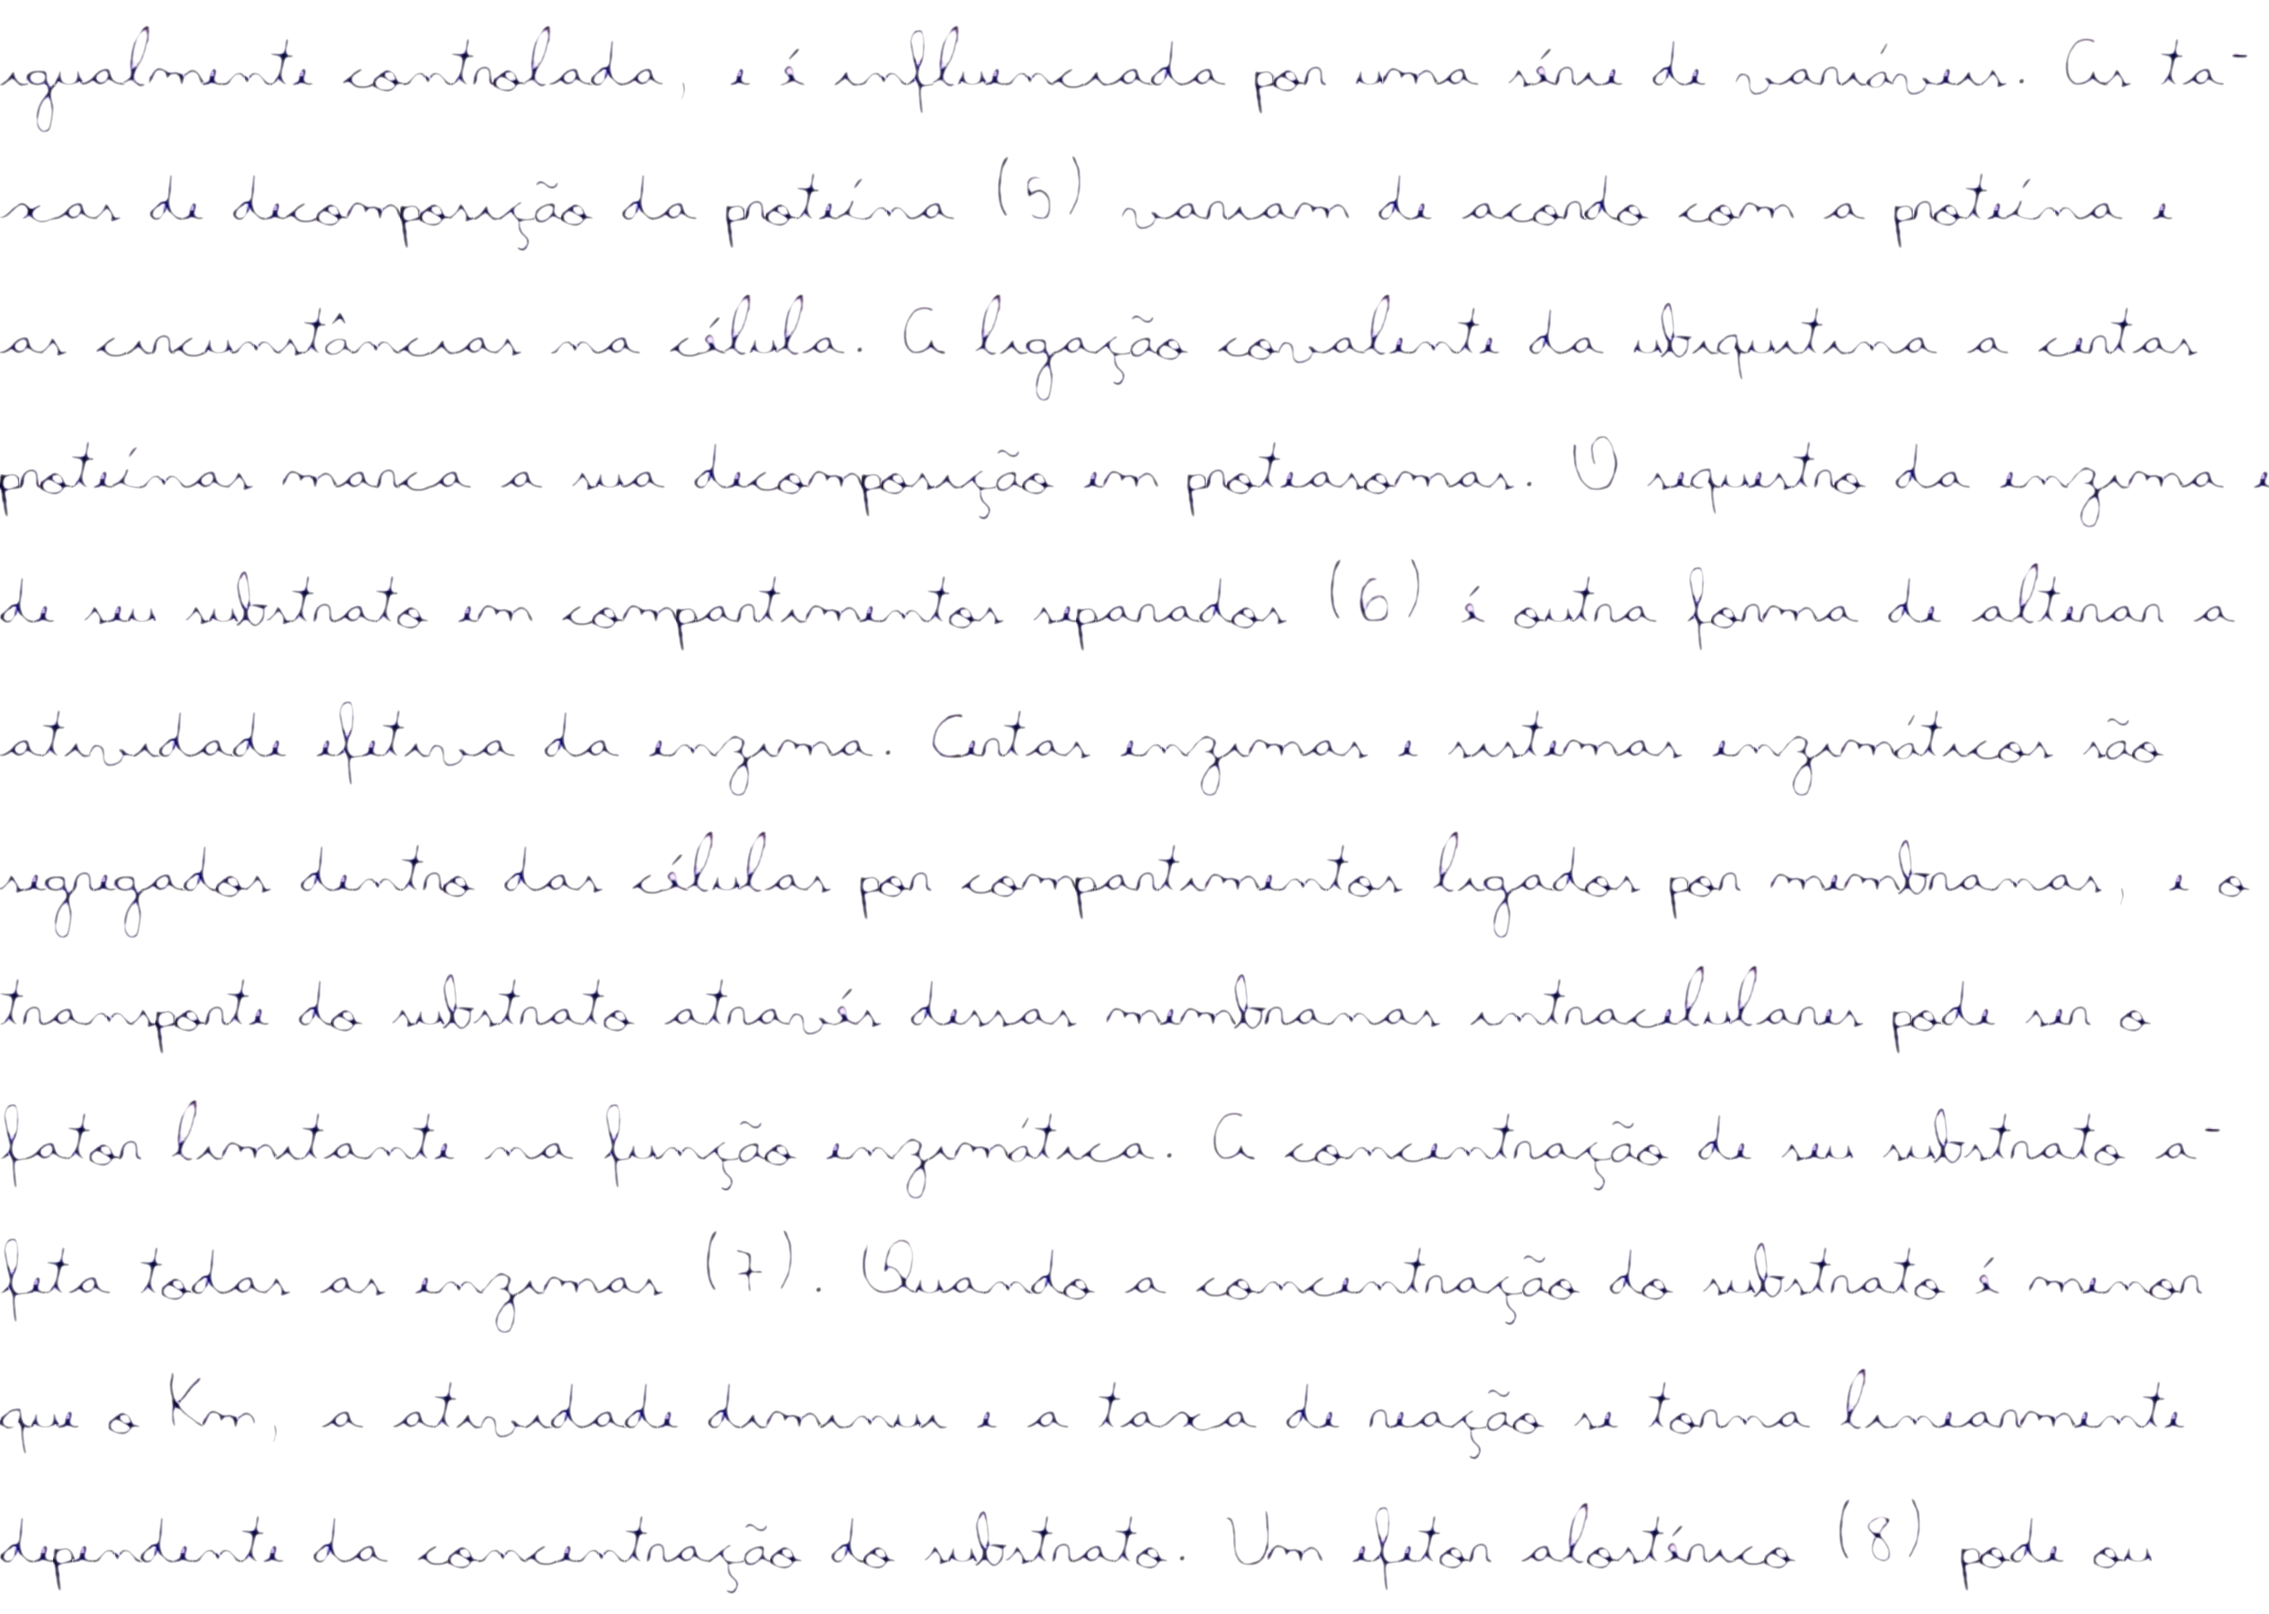
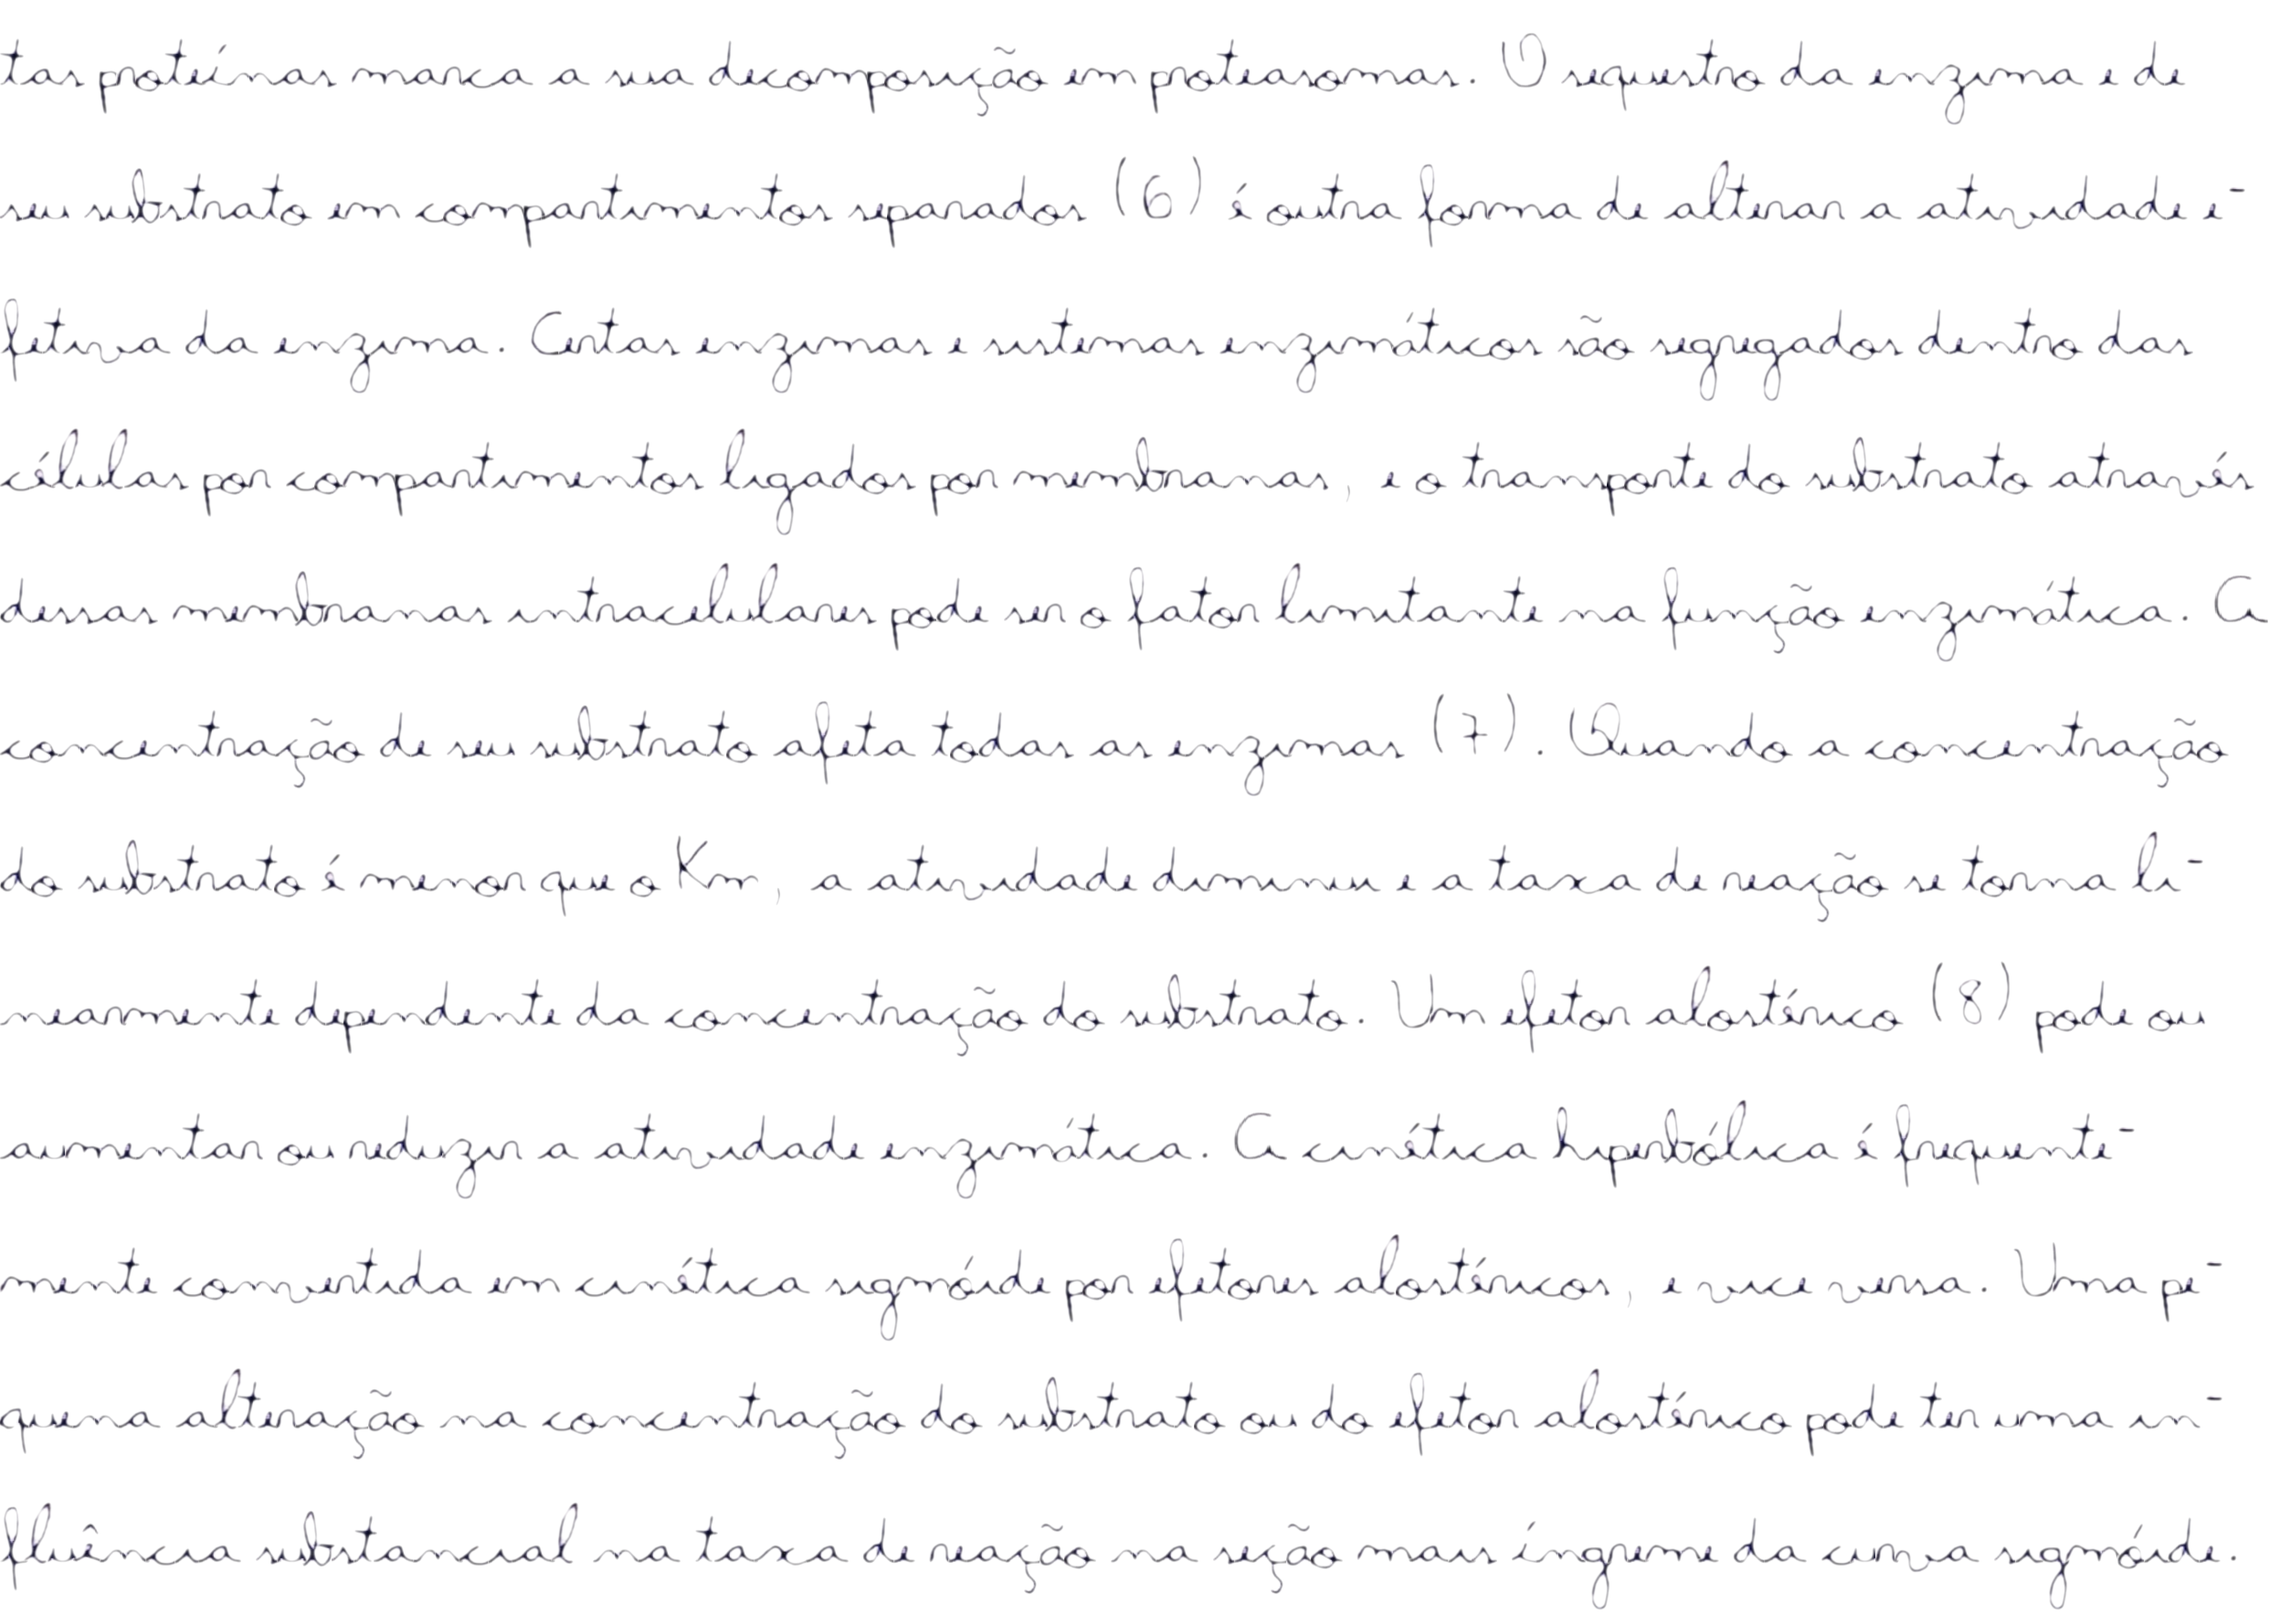
AAAAAAAAA

diff --git a/converttxt.py b/converttxt.py
@@ -1,4 +1,4 @@
-txt="Bioquímica 2 - Atividade 3\nGiuliana Lopes Pola 11779802\nDesenhos nas últimas páginas!"
+txt="1. Variações no número de moléculas enzimáticas ou mudanças na atividade catalítica de cada molécula enzimática presente atualmente podem afetar o fluxo através de um processo catalisado por enzimas. Mudanças na concentração local de uma pequena molécula: um substrato da rota na qual essa reação é um passo, um produto do caminho, ou um metabólito ou cofator crítico que reflete o estado metabólico da célula, muitas vezes geram mudanças alostéricas muito rápidas na atividade enzimática. A regulação alostérica é mediada por segundos mensageiros produzidos intracelularmente em resposta a sinais extracelulares (1), em uma escala de tempo um pouco mais lenta ditada pelo ritmo do processo de transdução do sinal. Sinais hormonais ou neurais, assim como fatores de crescimento ou citocinas, são exemplos de sinais extracelulares. As taxas relativas de síntese e decomposição de uma enzima específica determinam a quantidade de moléculas dessa enzima em uma célula. A ativação de um fator de transcrição (2) em resposta a um sinal externo pode alterar a taxa de síntese. Os fatores de transcrição são proteínas nucleares que, quando ativadas, ligam determinado DNA ao promotor de um gene e ativam ou reprimem a transcrição desse gene, resultando no aumento ou redução da síntese da proteína codificada. A ativação de um fator de transcrição pode ocorrer como consequência de sua ligação a um ligante particular ou como resultado de sua fosforilação ou desfosforilação. A estabilidade dos RNAs mensageiros (3), ou sua resistência à destruição por ribonucleases celulares, varia, e a quantidade de mRNA em uma célula é em função de sua taxa de produção e de decomposição. A taxa na qual os ribossomos (4) transcrevem um mRNA em uma proteína é igualmente controlada, e é influenciada por uma série de variáveis. As taxas de decomposição da proteína (5) variam de acordo com a proteína e as circunstâncias na célula. A ligação covalente da ubiquitina a certas proteínas marca a sua decomposição em proteasomas. O sequestro da enzima e de seu substrato em compartimentos separados (6) é outra forma de alterar a atividade efetiva da enzima. Certas enzimas e sistemas enzimáticos são segregados dentro das células por compartimentos ligados por membranas, e o transporte do substrato através dessas membranas intracelulares pode ser o fator limitante na função enzimática. A concentração de seu substrato afeta todas as enzimas (7). Quando a concentração do substrato é menor que o Km, a atividade diminui e a taxa de reação se torna linearmente dependente da concentração do substrato. Um efetor alostérico (8) pode ou aumentar ou reduzir a atividade enzimática. A cinética hiperbólica é frequentemente convertida em cinética sigmóide por efetores alostéricos, e vice versa. Uma pequena alteração na concentração do substrato ou do efetor alostérico pode ter uma influência substancial na taxa de reação na seção mais íngreme da curva sigmóide. Em segundos ou minutos após um sinal regulatório, geralmente um sinal extracelular, ocorrem mudanças covalentes de enzimas ou outras proteínas (9). A fosforilação e a desfosforilação são de longe as mudanças mais prevalentes. A célula deve ser capaz de devolver a enzima alterada ao seu estado de atividade anterior para que a modificação covalente seja benéfica na regulação. Por fim, a conexão e a dissociação de outra proteína reguladora regula várias enzimas (10)."
 import packages
 nfile=0
 
@@ -7,7 +7,7 @@ try:
   import re
   import os
   from unidecode import unidecode
-  from PIL import Image#Open the text file which you have to convert into handwriting
+  from PIL import Image,ImageEnhance#Open the text file which you have to convert into handwriting
   import cv2
   import numpy as np
 except:
@@ -61,7 +61,7 @@ def sylsplit(word):
     #print(word)
     vogals='aãáàâeéèêiíìîoóòõôuAÁÀÃÂEÉÈÊIÍÌÎOÓÒÕÔU'
     syllables=[]
-    if len(word)<3 or word==word.upper():
+    if len(word)<=3 or word==word.upper():
         syllables.append(word)
     else:
         j=0
@@ -109,7 +109,7 @@ sizehyp=sizeletters["{}.png".format(str(ord('-')))]
 sheet_width=BG.width
 sheet_height=BG.height
 gap, ht = 0, 0
-end=False
+endword=False
 last=''
 for word in txt.split(' '):
     if word=='\n':
@@ -125,10 +125,6 @@ for word in txt.split(' '):
         else:
             gap,ht=0,ht+147
         last="\n"
-    elif len(word)==1:
-        writeletter(word,False,gap,ht)
-        last=word
-        gap+=sizeletters['{}.png'.format(str(ord(word)))]-5
     elif '-' in word:
         ws=[]
         words=word.split('-')
@@ -143,10 +139,10 @@ for word in txt.split(' '):
     if not syllables==[]:
         for syl in syllables:
             upperl=False
-            if syl==syl.upper() and len(syl)>1:
+            if len(syl)>1 and not syl[1:]==syl[1:].lower():
                 upperl=True
             #print(syl, last)
-            end=False
+            endword=False
             sizesyl=[]
             for letter in syl:
                 try:
@@ -162,8 +158,8 @@ for word in txt.split(' '):
             else:
                 newgap=gap+sum(sizesyl)+sizehyp
             if sheet_width < newgap:
-                #print(True)
-                if end==False and (last.isalpha() or last.isnumeric()):
+                endline=True
+                if endword==False and (last.isalpha() or last.isnumeric()):
                     try:
                         cases = Image.open("newfont/{}.png".format(str(ord('-'))))
                     except:
@@ -174,7 +170,7 @@ for word in txt.split(' '):
                         BG.paste(cases, (gap, ht),cases)
                         last='hypen'
                         gap+=sizeletters['{}.png'.format(str(ord('-')))]-5
-                if ht+160>=sheet_height:
+                if ht+152>=sheet_height:
                     if nfile==0:
                         BG.save("{}.png".format(slugify(' '.join(txt.split(' ')[0:6]))))
                     else:
@@ -198,12 +194,10 @@ for word in txt.split(' '):
                     last=letter
                     gap+=sizeletters['{}.png'.format(str(ord(letter)))]-5
     syllables=[]
-    end=True
-    if not word=="\n":
-        writeletter(' ',False,gap,ht)
-        last=' '
-        gap+=sizeletters['{}.png'.format(str(ord(' ')))]-5
-BG.show()
+    endword=True
+    writeletter(' ',False,gap+5,ht)
+    last=' '
+    gap+=sizeletters['{}.png'.format(str(ord(' ')))]-5
 if nfile==0:
     BG.save("{}.png".format(slugify(' '.join(txt.split(' ')[0:6]))))
 else:
@@ -214,3 +208,8 @@ my_dir = os.getcwd()
 for fname in os.listdir(my_dir):
     if fname.startswith(slugify(' '.join(txt.split(' ')[0:6]))):
         removebg.remove(os.path.join(my_dir, fname),False)
+        img = Image.open(fname)
+        converter = ImageEnhance.Color(img)
+        img2 = converter.enhance(0.5)
+        #img2.show()
+        img2.save(fname)
